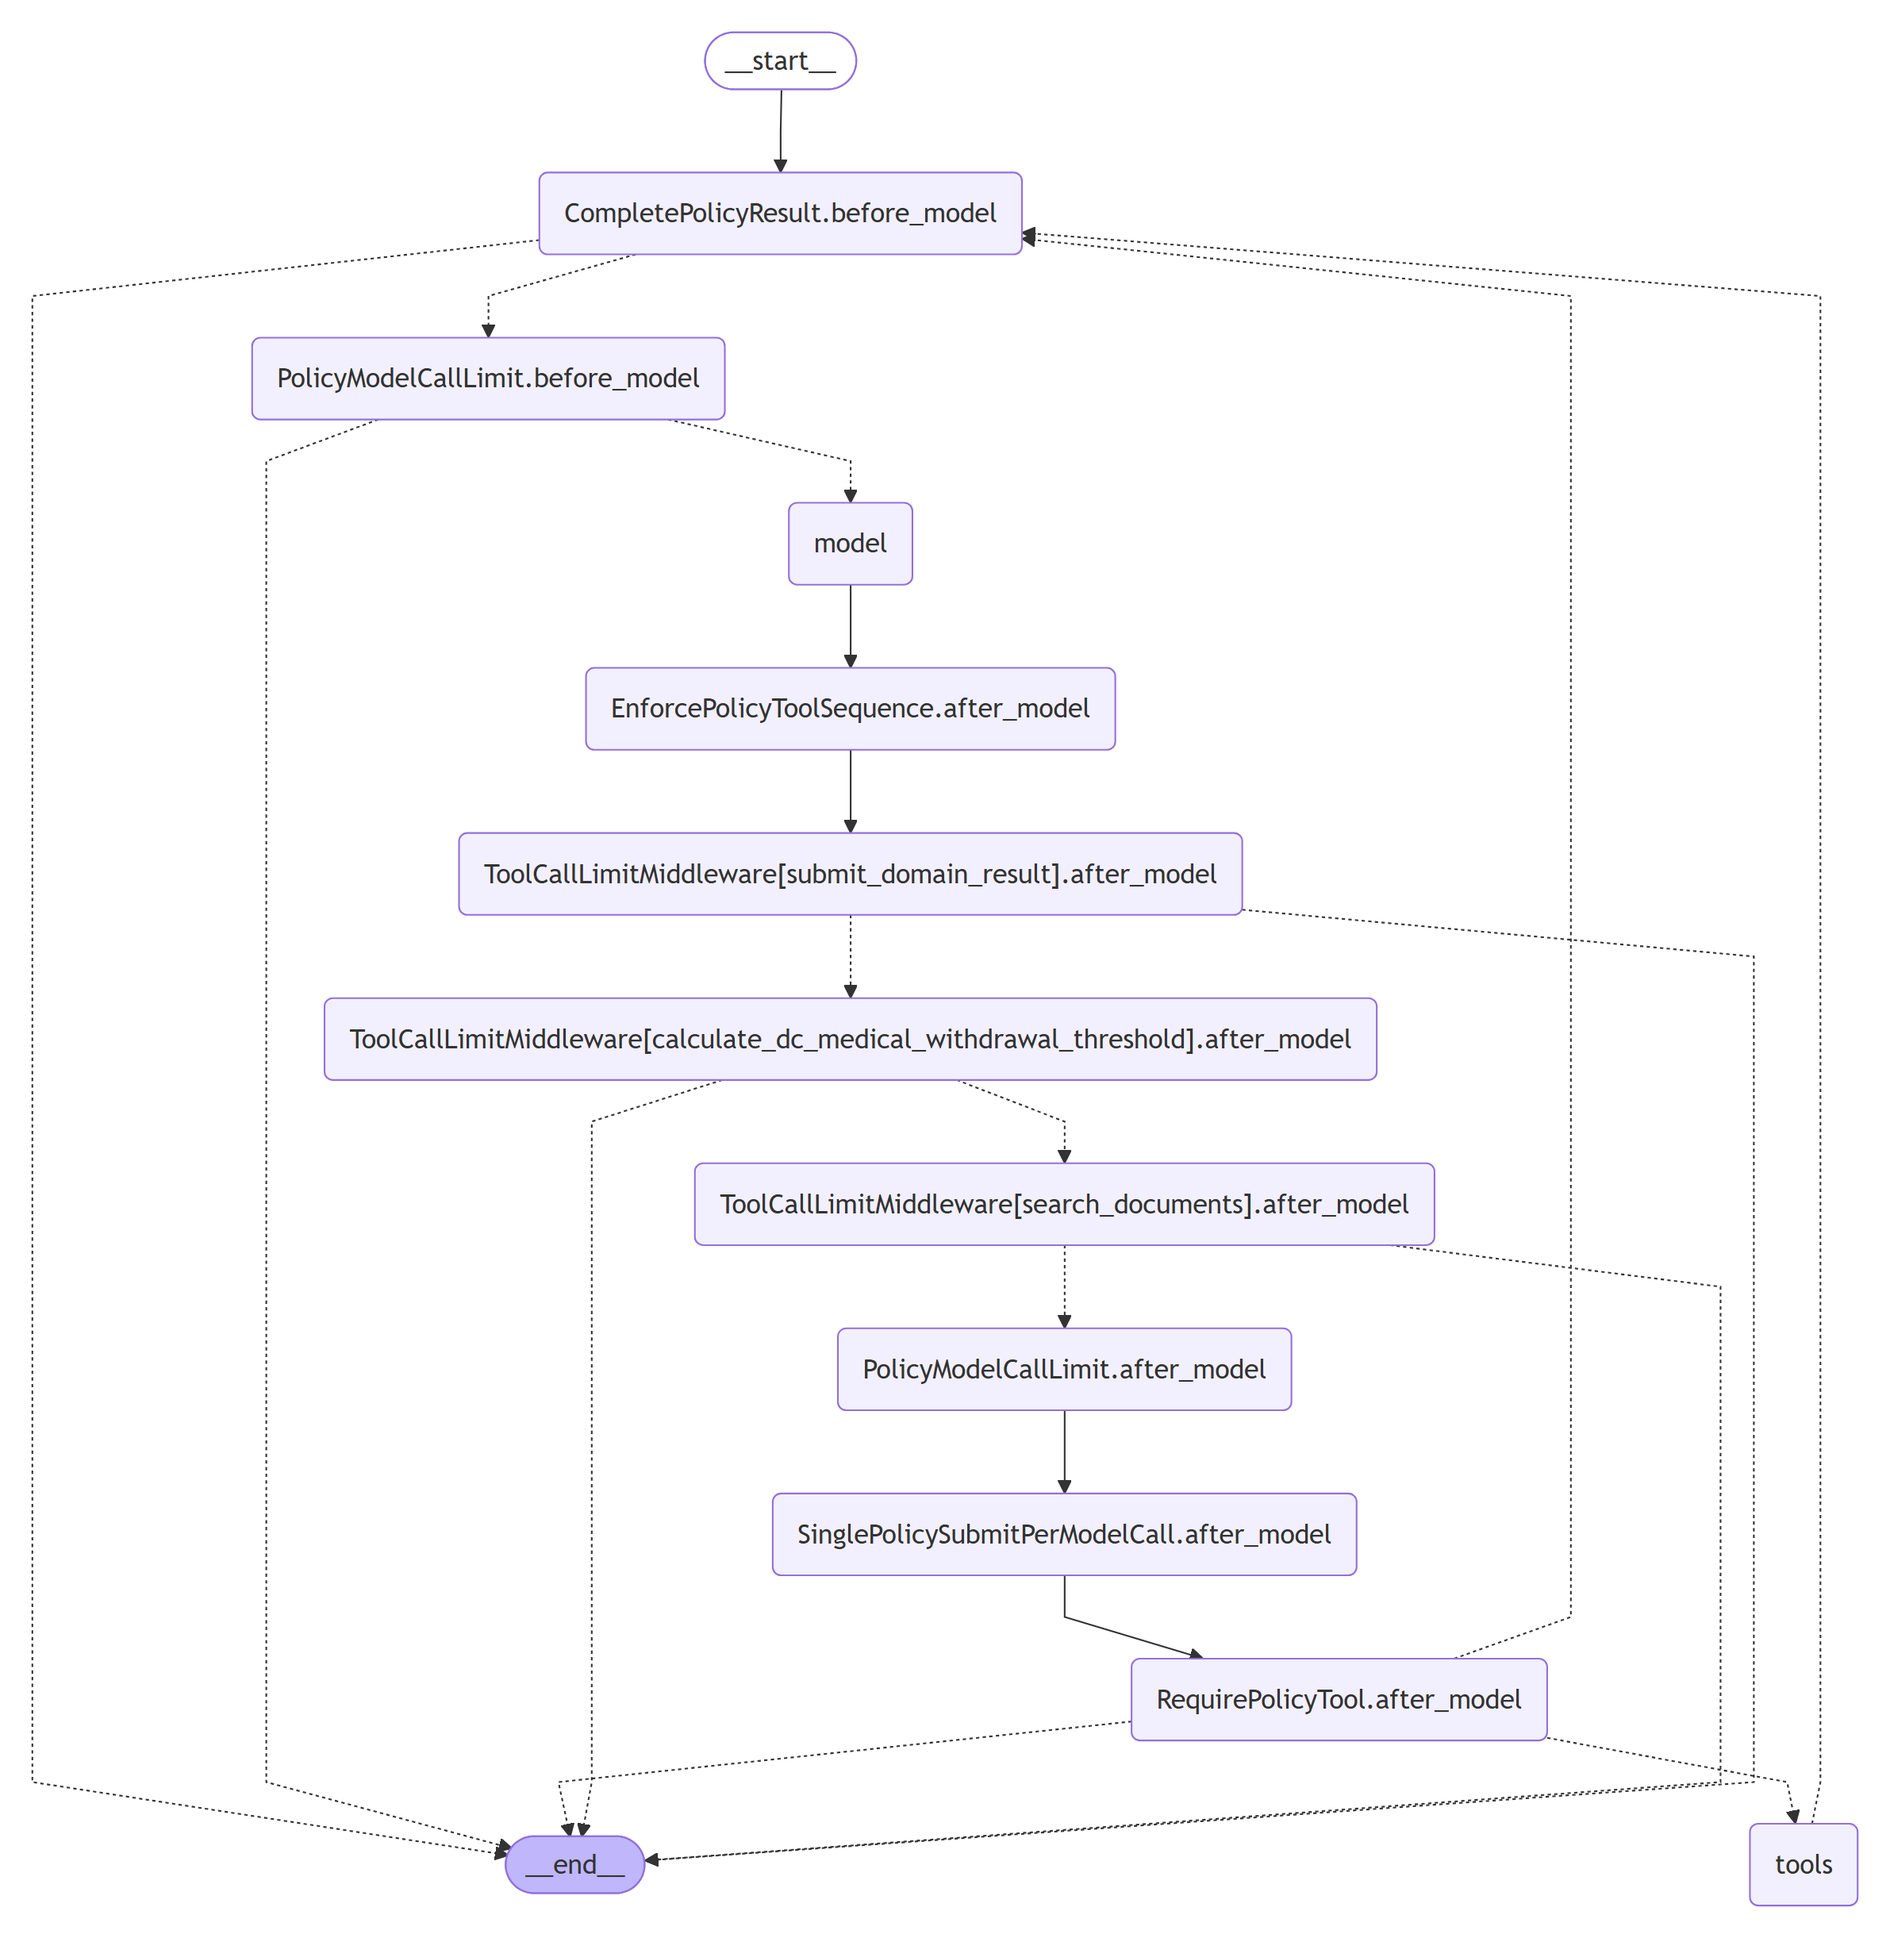
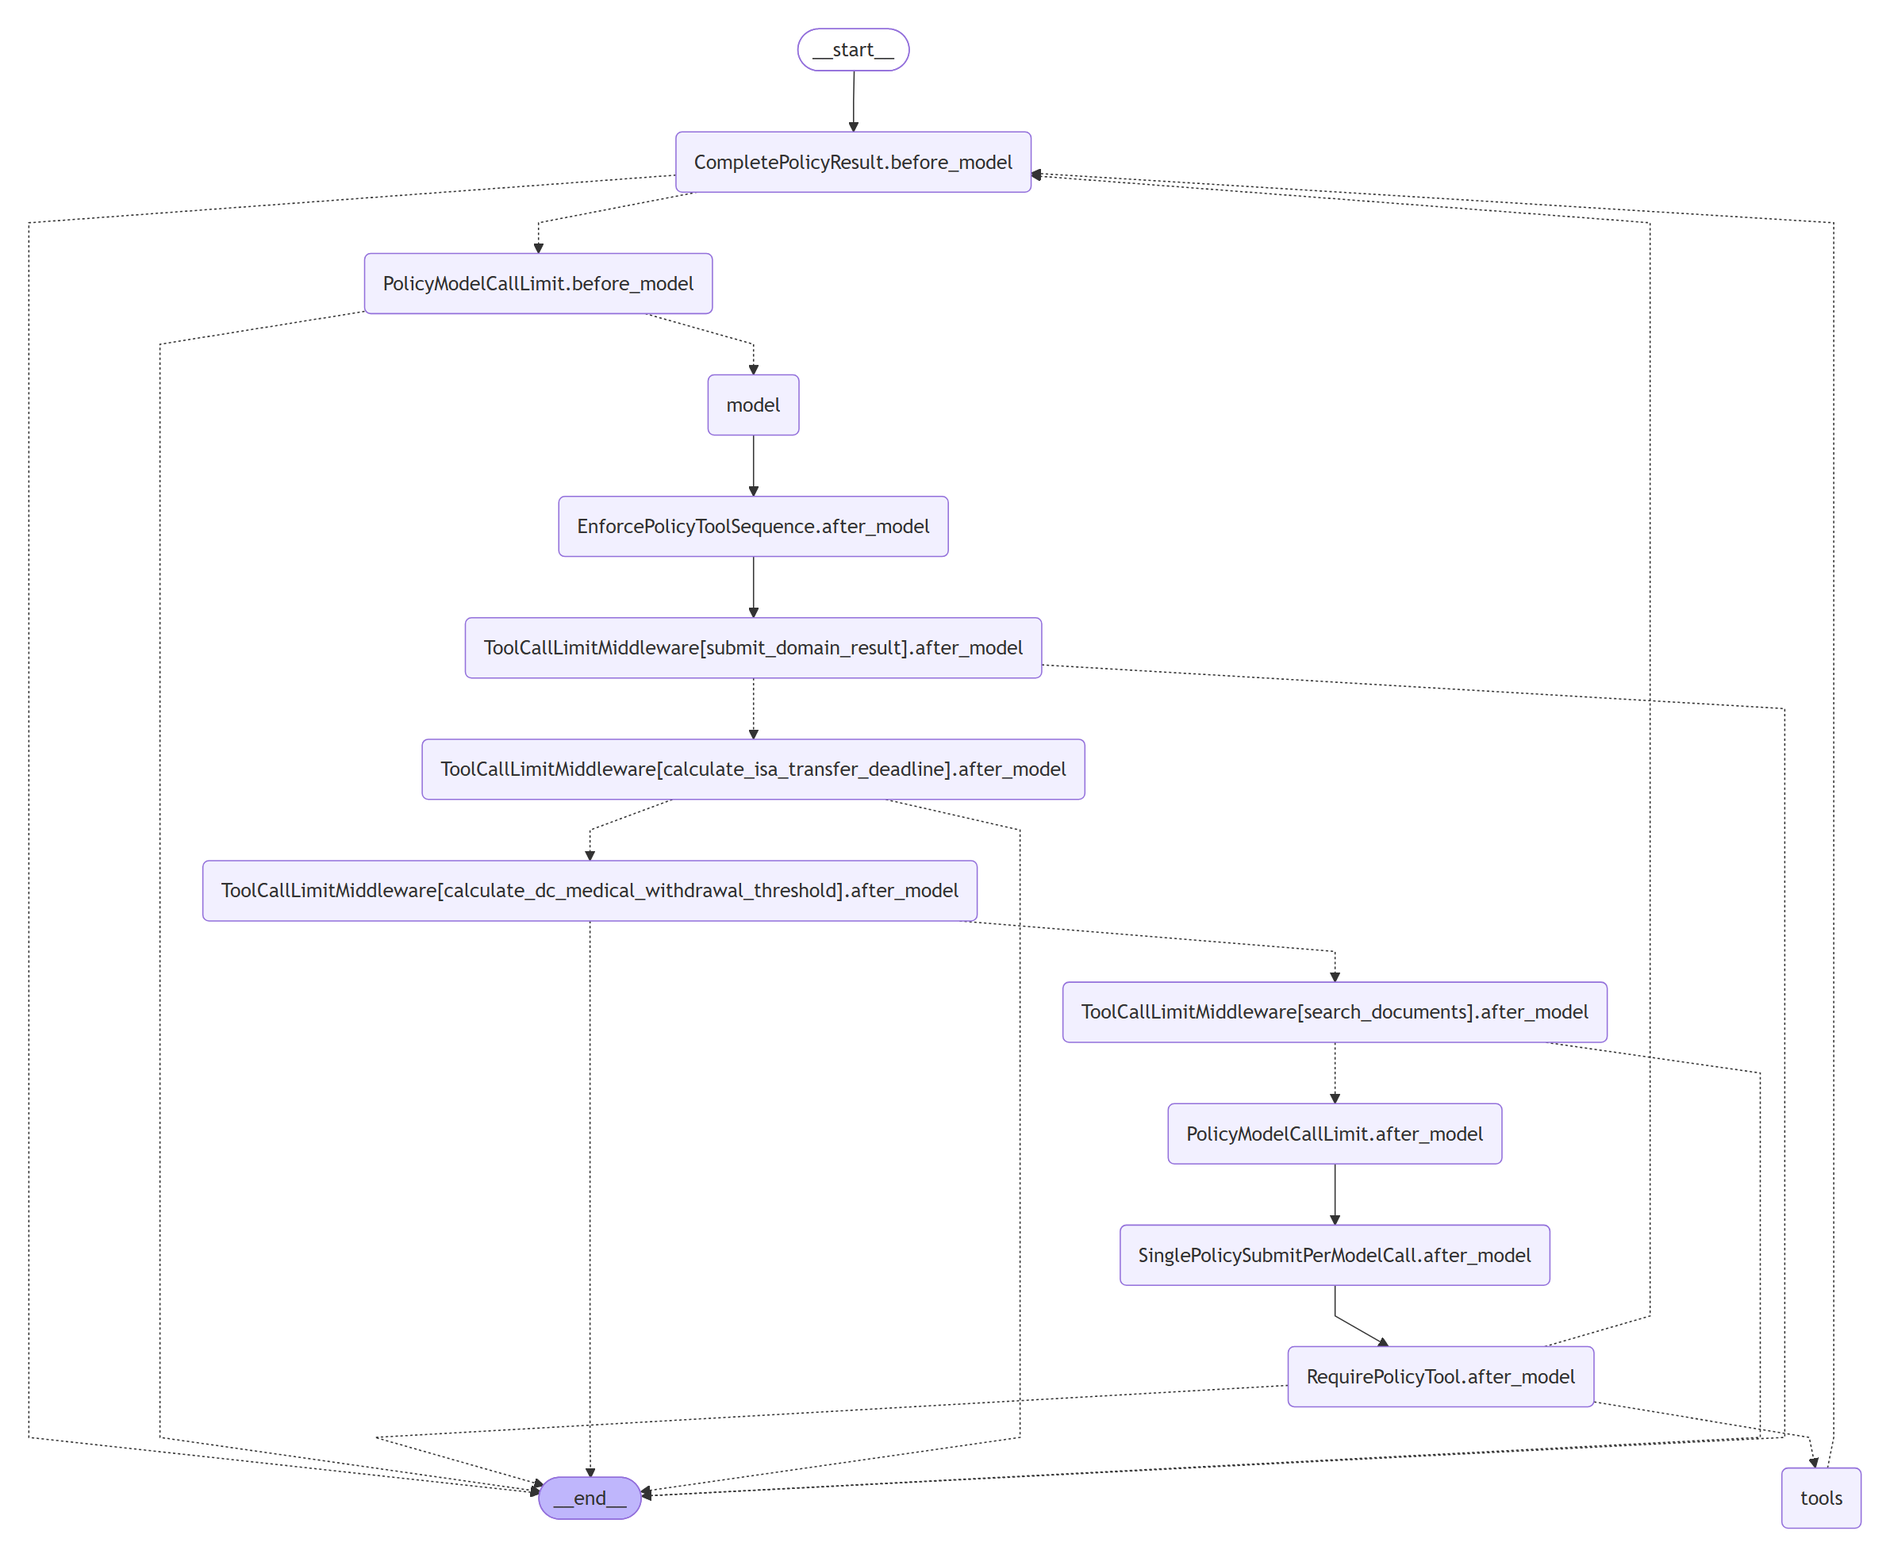
docs(agent): document ISA transfer deadline flow

diff --git a/docs/architecture/agent-graphs.md b/docs/architecture/agent-graphs.md
@@ -126,6 +126,7 @@ graph TD;
 	PolicyModelCallLimit\2eafter_model("PolicyModelCallLimit.after_model")
 	ToolCallLimitMiddleware\5bsearch_documents\5d\2eafter_model("ToolCallLimitMiddleware[search_documents].after_model")
 	ToolCallLimitMiddleware\5bcalculate_dc_medical_withdrawal_threshold\5d\2eafter_model("ToolCallLimitMiddleware[calculate_dc_medical_withdrawal_threshold].after_model")
+	ToolCallLimitMiddleware\5bcalculate_isa_transfer_deadline\5d\2eafter_model("ToolCallLimitMiddleware[calculate_isa_transfer_deadline].after_model")
 	ToolCallLimitMiddleware\5bsubmit_domain_result\5d\2eafter_model("ToolCallLimitMiddleware[submit_domain_result].after_model")
 	EnforcePolicyToolSequence\2eafter_model("EnforcePolicyToolSequence.after_model")
 	__end__([<p>__end__</p>]):::last
@@ -141,9 +142,11 @@ graph TD;
 	SinglePolicySubmitPerModelCall\2eafter_model --> RequirePolicyTool\2eafter_model;
 	ToolCallLimitMiddleware\5bcalculate_dc_medical_withdrawal_threshold\5d\2eafter_model -.-> ToolCallLimitMiddleware\5bsearch_documents\5d\2eafter_model;
 	ToolCallLimitMiddleware\5bcalculate_dc_medical_withdrawal_threshold\5d\2eafter_model -.-> __end__;
+	ToolCallLimitMiddleware\5bcalculate_isa_transfer_deadline\5d\2eafter_model -.-> ToolCallLimitMiddleware\5bcalculate_dc_medical_withdrawal_threshold\5d\2eafter_model;
+	ToolCallLimitMiddleware\5bcalculate_isa_transfer_deadline\5d\2eafter_model -.-> __end__;
 	ToolCallLimitMiddleware\5bsearch_documents\5d\2eafter_model -.-> PolicyModelCallLimit\2eafter_model;
 	ToolCallLimitMiddleware\5bsearch_documents\5d\2eafter_model -.-> __end__;
-	ToolCallLimitMiddleware\5bsubmit_domain_result\5d\2eafter_model -.-> ToolCallLimitMiddleware\5bcalculate_dc_medical_withdrawal_threshold\5d\2eafter_model;
+	ToolCallLimitMiddleware\5bsubmit_domain_result\5d\2eafter_model -.-> ToolCallLimitMiddleware\5bcalculate_isa_transfer_deadline\5d\2eafter_model;
 	ToolCallLimitMiddleware\5bsubmit_domain_result\5d\2eafter_model -.-> __end__;
 	__start__ --> CompletePolicyResult\2ebefore_model;
 	model --> EnforcePolicyToolSequence\2eafter_model;
